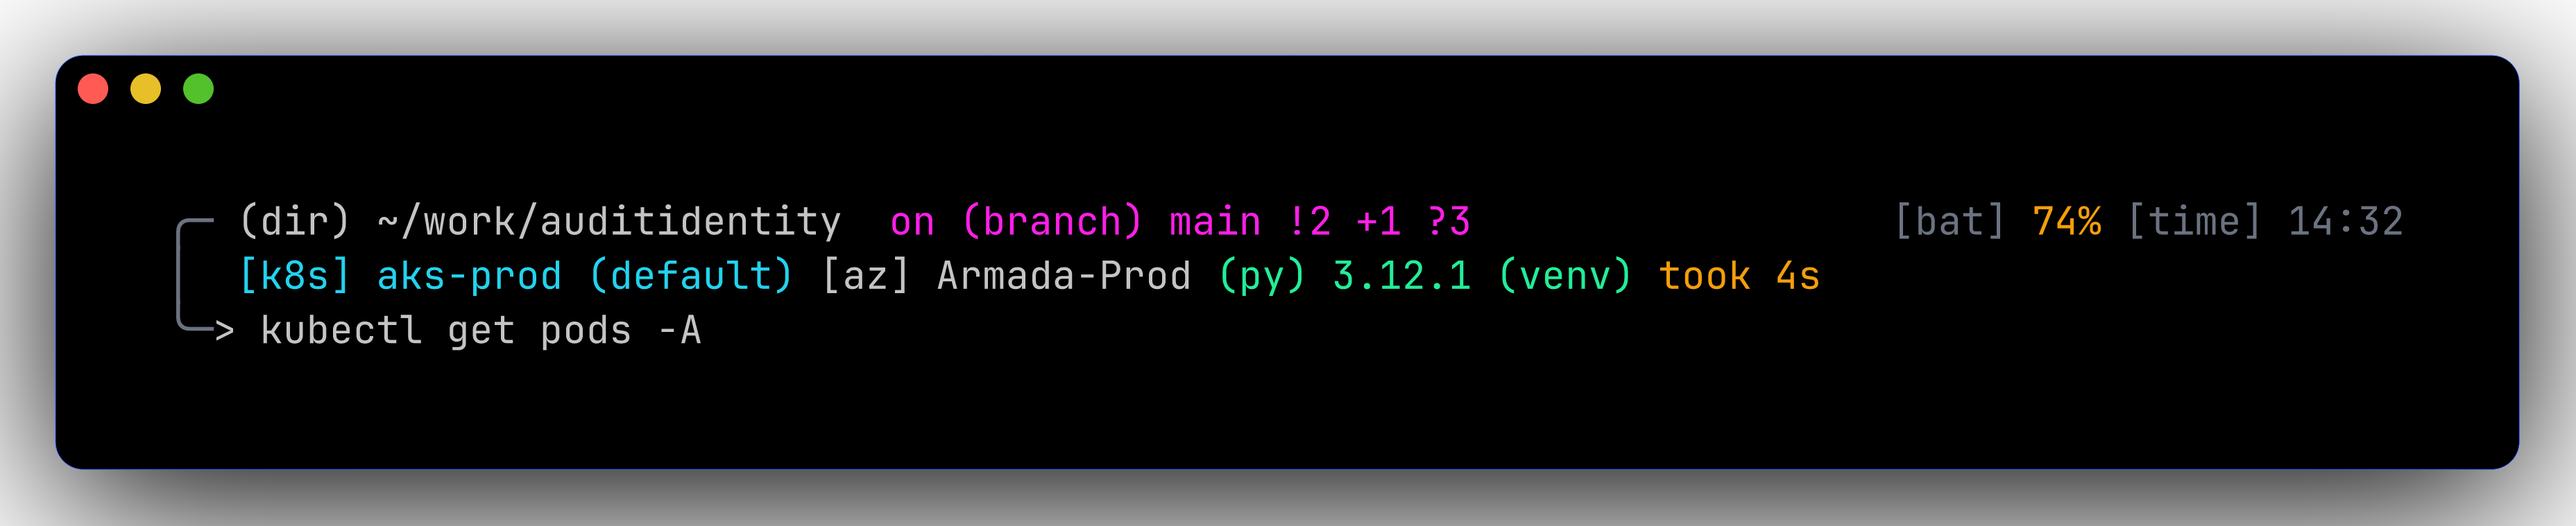
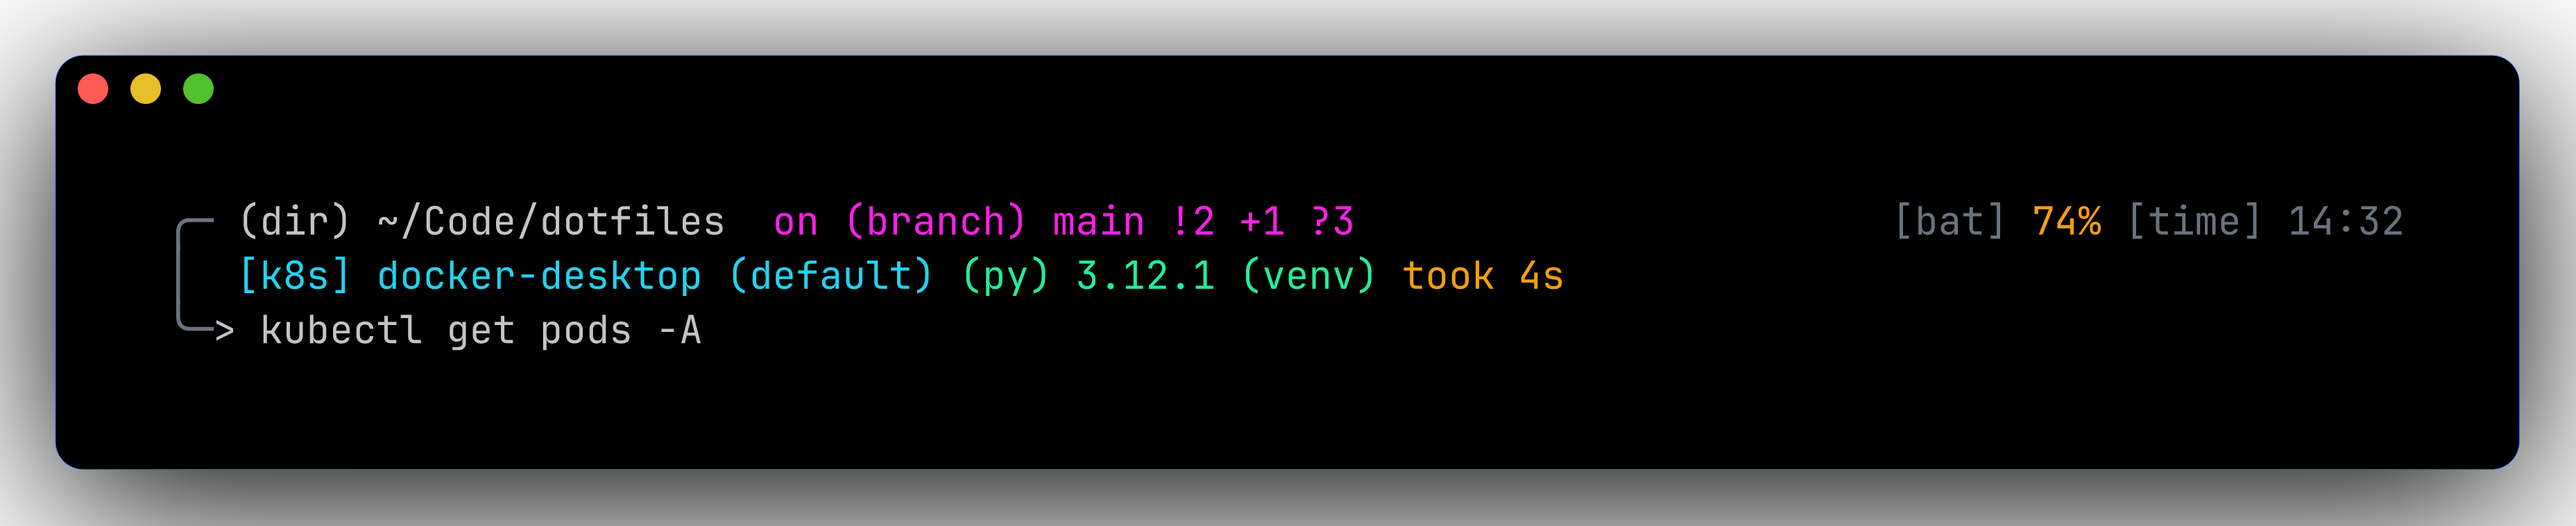
docs: scrub work-context names from prompt screenshot; pin clone URL
The rich starship prompt screenshot used to show ~/work/auditidentity
as the directory, aks-prod as the kubernetes context, and Armada-Prod
as the azure subscription. Replace with neutral demo content:

- ~/Code/dotfiles for the directory
- docker-desktop for the kubernetes context
- drop the azure segment entirely (the screenshot is a documentation
  surface, not a representative shot of a real machine)

Updated:
- docs/screenshots/generate.sh — content of section 1 (rich prompt)
- docs/screenshots/starship-prompt.png — regenerated via freeze
- docs/prompt.md — anatomy block matches the new screenshot

Also replaced the <this-repo> placeholder in three install snippets
(README.md, docs/install.md, docs/index.md) with the real
https://github.com/jsgerman-oss/dotfiles.git URL.

Changed region(s): [[0.1562, 0.4848, 0.7186, 0.5758], [0.1562, 0.3939, 0.5623, 0.4545]]

diff --git a/docs/prompt.md b/docs/prompt.md
@@ -11,7 +11,7 @@ Every segment is contextual: it only shows when it has something useful to say.
 
 ```text
 # Line 1 (left format)                                  + right_format
-╭─  ~/work/dotfiles   on   main !8 ?15           🐳   [bat]  [time]
+╭─  ~/Code/dotfiles   on   main !8 ?15           🐳   [bat]  [time]
    │                  │    │                      │      │     │
    │                  │    │                      │      │     └─ time
    │                  │    │                      │      └─ battery
@@ -21,11 +21,10 @@ Every segment is contextual: it only shows when it has something useful to say.
    └─ directory
 
 # Line 2
-│  ⎈ aks-prod (default)   Armada-Prod   3.12.1 (venv)  took 4s
-│   │                    │              │              │
-│   │                    │              │              └─ cmd_duration
-│   │                    │              └─ python
-│   │                    └─ azure
+│  ⎈ docker-desktop (default)   3.12.1 (venv)  took 4s
+│   │                          │              │
+│   │                          │              └─ cmd_duration
+│   │                          └─ python
 │   └─ kubernetes
 
 # Line 3

diff --git a/docs/index.md b/docs/index.md
@@ -11,7 +11,7 @@ A neon-cobalt + magenta development environment for **macOS**. Themed end-to-end
 ![Cobalt + Magenta palette](screenshots/palette.png){: .cobalt-hero-palette }
 
 ```bash
-git clone <this-repo> ~/.dotfiles
+git clone https://github.com/jsgerman-oss/dotfiles.git ~/.dotfiles
 cd ~/.dotfiles
 ./install.sh
 ```

diff --git a/README.md b/README.md
@@ -22,7 +22,7 @@ Themed end-to-end across nvim, tmux, starship, lazygit, fzf, bat, and ccstatusli
 ## Quick Start
 
 ```bash
-git clone <this-repo> ~/.dotfiles
+git clone https://github.com/jsgerman-oss/dotfiles.git ~/.dotfiles
 cd ~/.dotfiles
 ./install.sh
 ```

diff --git a/docs/install.md b/docs/install.md
@@ -3,7 +3,7 @@
 What `./install.sh` actually does, command by command. Idempotent and safe to re-run.
 
 ```bash
-git clone <this-repo> ~/.dotfiles
+git clone https://github.com/jsgerman-oss/dotfiles.git ~/.dotfiles
 cd ~/.dotfiles
 ./install.sh
 ```
